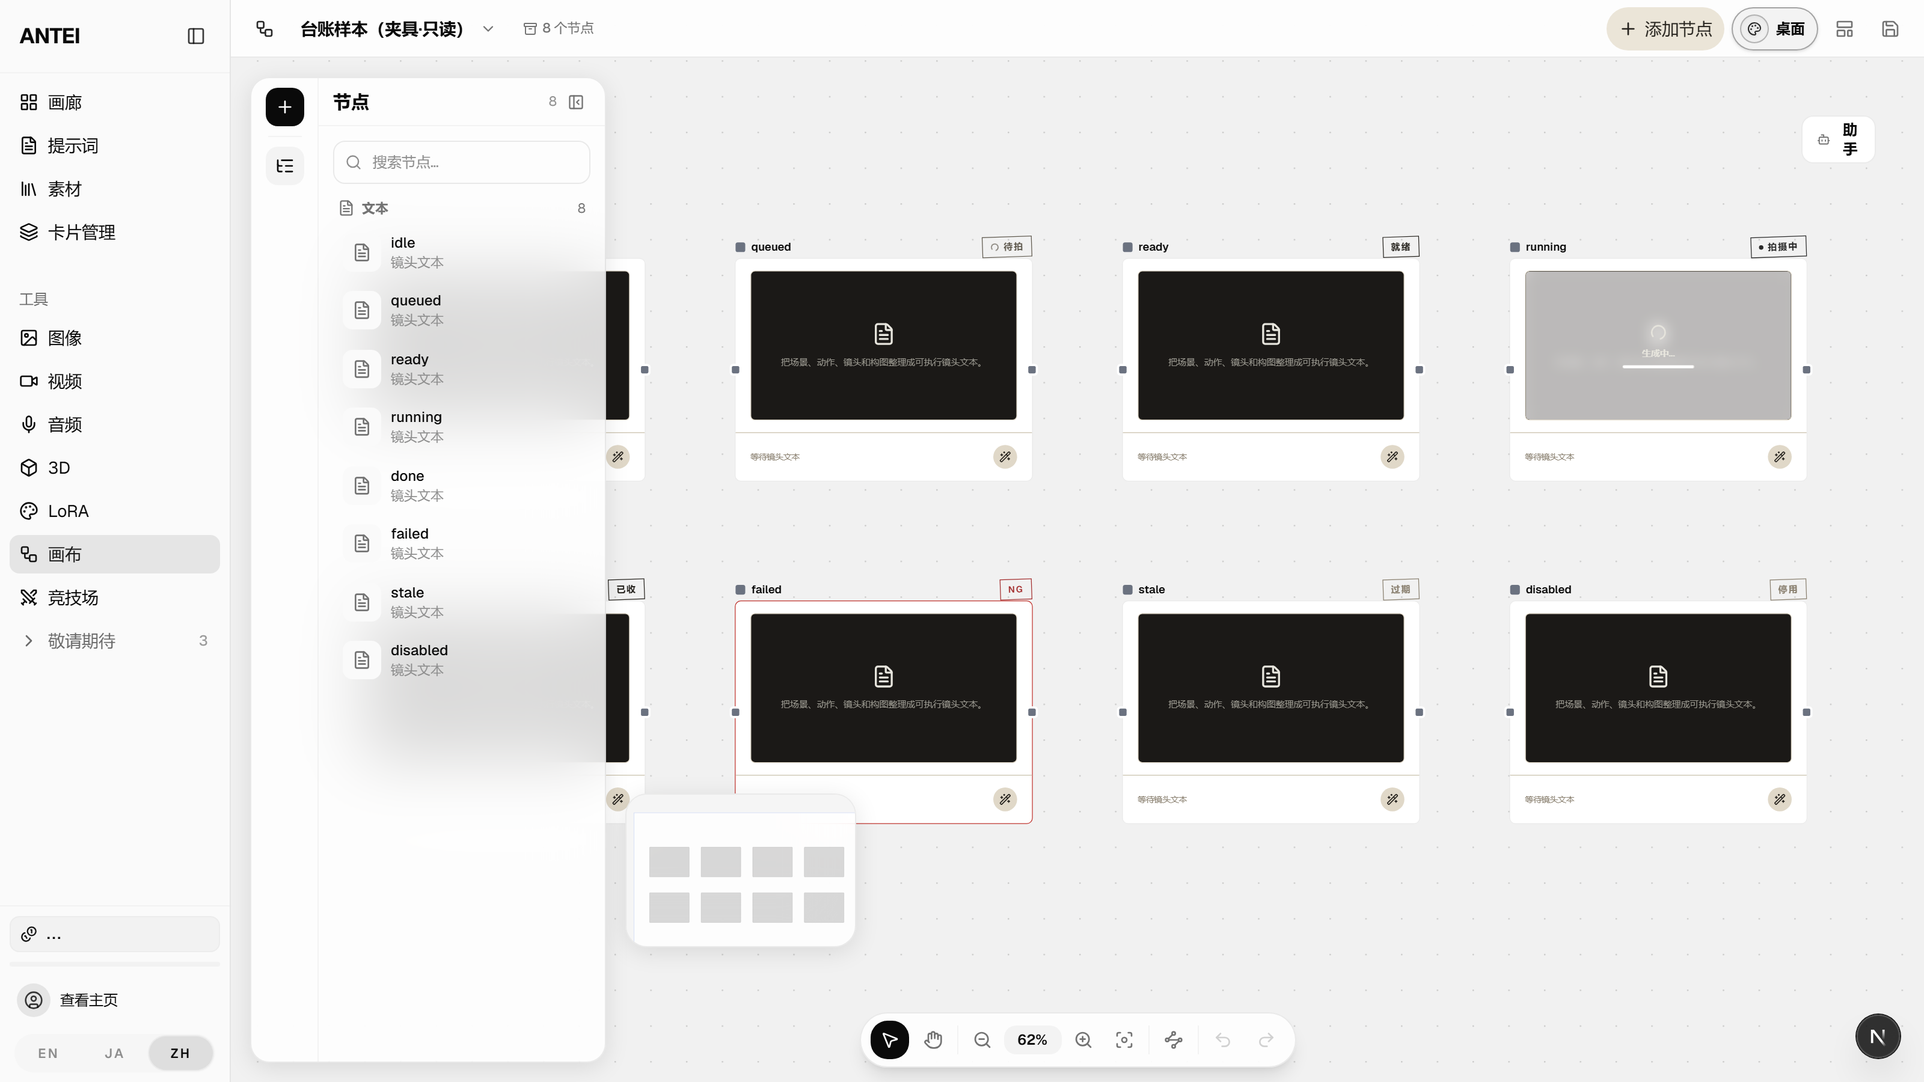
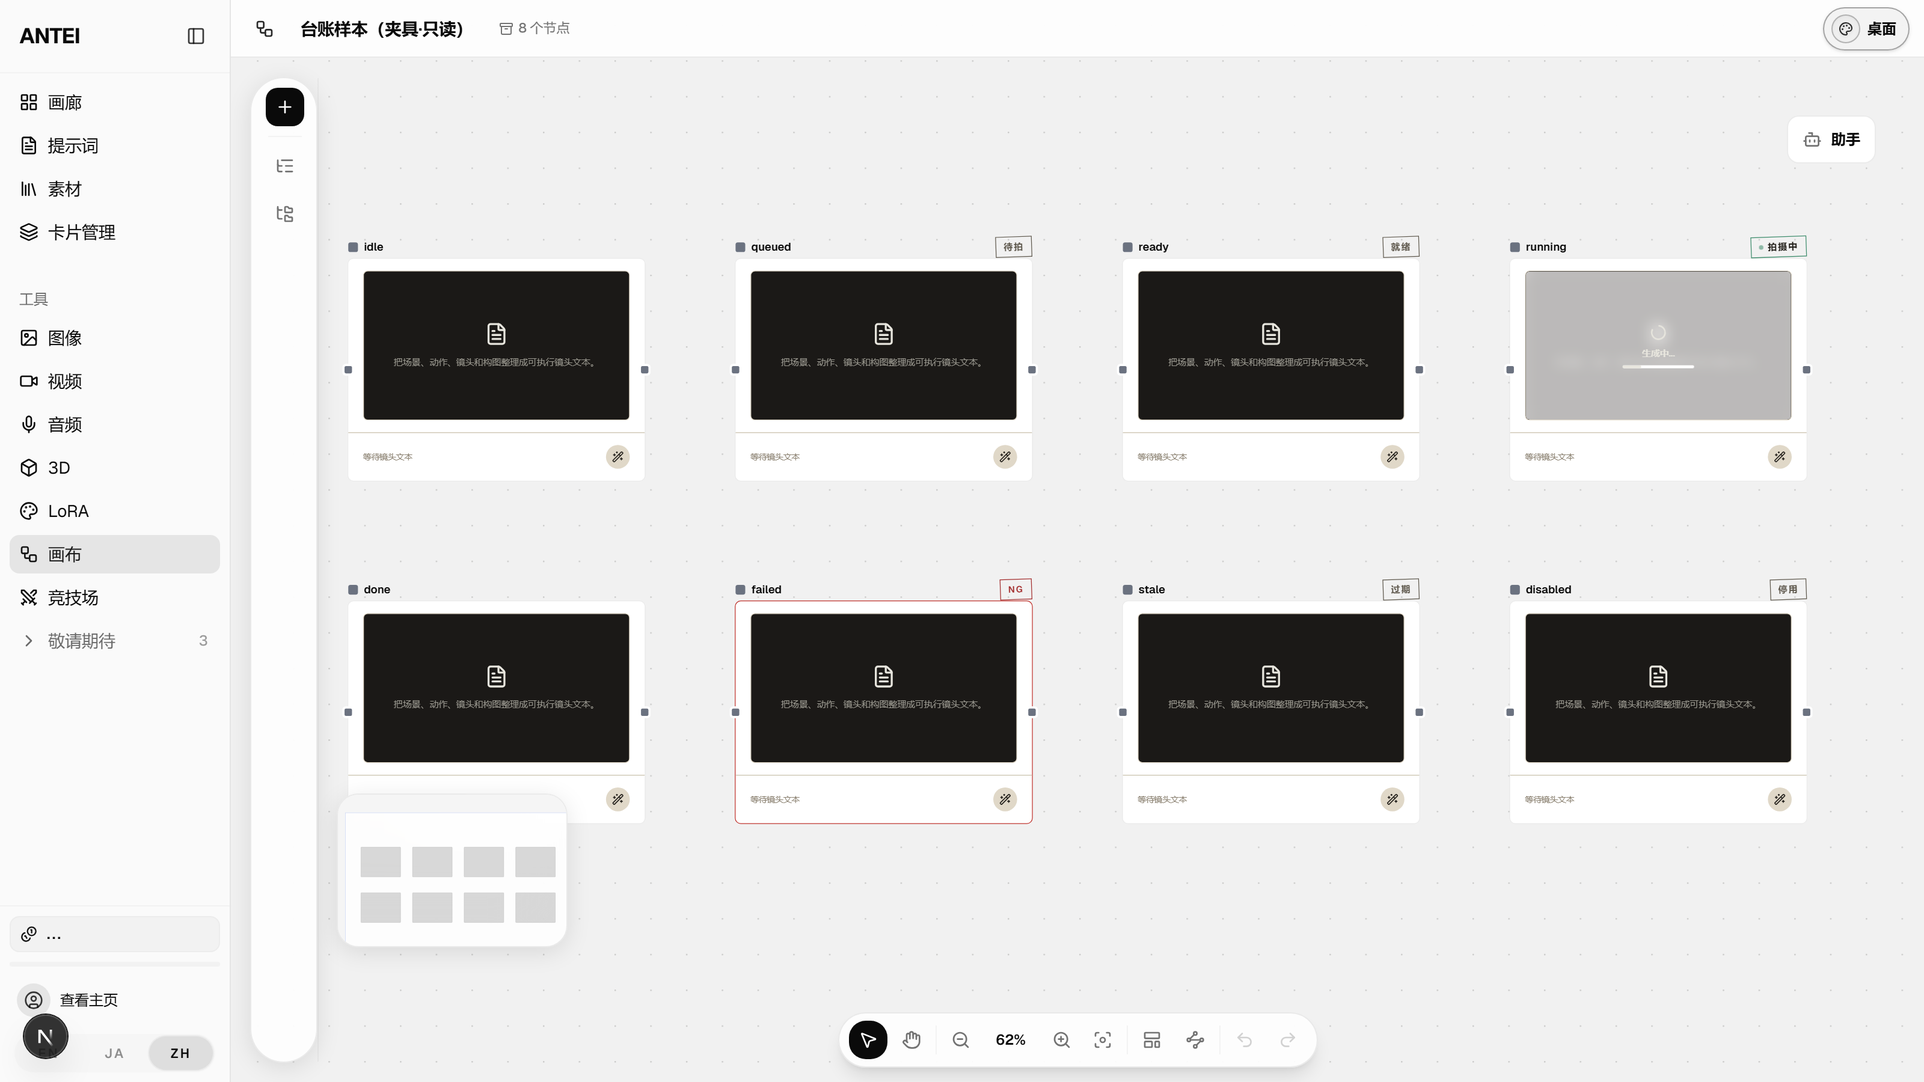
fix(canvas): A7 状态编码 —— 八态里只有五态会发生，而其中三态互相认不出
台账 docs/plans/canvas-ui-inventory-2026-08-01.md §17。批 3 第二片
（第一片是 eb3c7d7d 的 animate-pulse 全站修复）。

⚠ 台账原先记的 A7 是「八态共用一张灰白牌，实拍只认得出 idle」。调查后
**那个推理是错的**：idle 认得出恰恰因为它是唯一有明确定义的态（`return null`，
素卡 = idle）；实拍看不到别的态，真实原因是这枚章在**五族卡上被
`hideStatusBadge` 显式关掉了**。真正的病在下面，比记的那版更糟。

── 病 ──────────────────────────────────────────────────────────

  · `queued` / `stale` / `disabled` **全仓没有任何 writer**，只活在
    `NODE_STATUS_IDS` 枚举里。徽标里那个 `isQueued` 分支（渲染一个转圈的
    Loader2）是**死代码** —— 那个态永远不会来。
  · `ready` 与 `done` 的 `STATUS_COLORS` 值**逐字符相同**
    （`border-current text-node-foreground`）。「等着拍」和「拍完了」两个
    语义相反的态是同一枚章，只有文案差。
  · `stale` 与 `disabled` 同样逐字符相同。
  · `running` 两重失效：
      ① `canvas.css` 在 `.domain-canvas` 里把 `--node-paint` 从石绿 #3e8c6c
         重映射成连线色 `--canvas-edge-active` #2a2a2a（「只变明度不换色相」，
         那是给边用的）。徽标搭了这趟车 —— 实测 #2a2a2a 与 ready/done 的
         #26231e 对比 **1.09**，OKLCh 彩度 0.000 vs 0.010（都是无彩色），
         ΔE-ok **0.029** = 真同色。而 `node-tokens.ts:137` 自己写着
         「进行中靠动效 + 石绿」。
      ② 剩下唯一的区分手段——那颗脉冲点——**不动**（eb3c7d7d 已修）。
    两条叠起来：「正在生成」这件事在画面上是无声的。
  · `stale` / `disabled` 用的 `--node-subtle` 在三个底色预设上最差 **3.44**，
    不够 12px 文字的 4.5。而 `canvas.css:529` 给 `--canvas-ink-subtle` 的注释
    原话就是「只在卡背上用，别放画布底」—— 这枚章恰恰画在画布底上。

── 编码（owner 2026-08-03 四问四答）────────────────────────────

判据只有一条：**这个状态出现时，用户需不需要为它停下来**。

  idle 不盖章 → done 不盖章 → ready 最轻 → running 唯一带动效 → failed 唯一的红

  ① done 不盖章 —— 完成的证据是卡上那张图，再盖一枚是同一件事说两遍。
     `ready ≡ done` 那个 bug 其实提示了答案：两枚一样却没人抱怨过，说明多余
[…]

diff --git a/src/components/business/node/nodes/NodeStatusBadge.test.tsx b/src/components/business/node/nodes/NodeStatusBadge.test.tsx
@@ -1,0 +1,108 @@
+import { cleanup, render, within } from '@testing-library/react'
+import { describe, expect, it, vi } from 'vitest'
+
+import { STATUS_COLORS } from '@/constants/node-tokens'
+import { NODE_STATUS_IDS, NODE_STATUSES } from '@/constants/node-types'
+
+import { NodeStatusBadge } from './NodeStatusBadge'
+
+vi.mock('next-intl', () => ({
+  useTranslations: () => (key: string) => key,
+}))
+
+/**
+ * 台账 §17.3（owner 2026-08-03 拍板）：状态编码按「这个状态出现时用户需不需要
+ * 停下来」排强度。这组用例守的是那条梯度本身，不是某个具体色值。
+ */
+describe('NodeStatusBadge · 强度梯度', () => {
+  it('idle 与 done 都不盖章', () => {
+    // idle = 素卡（原本就是）；done = 拍板①新增 —— 完成的证据是卡上那张图，
+    // 再盖一枚是同一件事说两遍。
+    for (const status of [
+      NODE_STATUS_IDS.idle,
+      NODE_STATUS_IDS.done,
+    ] as const) {
+      const { container } = render(<NodeStatusBadge status={status} />)
+      expect(container).toBeEmptyDOMElement()
+    }
+  })
+
+  it('ready / running / failed 都盖章', () => {
+    for (const status of [
+      NODE_STATUS_IDS.ready,
+      NODE_STATUS_IDS.running,
+      NODE_STATUS_IDS.failed,
+    ] as const) {
+      const { container } = render(<NodeStatusBadge status={status} />)
+      expect(container).not.toBeEmptyDOMElement()
+      expect(within(container).getByText(status)).toBeInTheDocument()
+      cleanup()
+    }
+  })
+
+  // ⚠ 这条是 running 存在的全部理由：它此前与 ready/done 同色（--node-paint
+  // 被 canvas.css 重映射给连线，ΔE-ok 0.029），唯一的区分手段就是这颗点。
+  it('只有 running 带那颗会动的点，且点不跟 currentColor', () => {
+    const { container: run } = render(
+      <NodeStatusBadge status={NODE_STATUS_IDS.running} />,
+    )
+    const dot = run.querySelector('.canvas-status-dot')
+    expect(dot).not.toBeNull()
+    expect(dot).toHaveClass('animate-pulse')
+    // 点靠 .canvas-status-dot 由 canvas.css 上石绿；若退回 bg-current，
+    // 它会跟着墨色的章文变成墨色，running 就又只剩文案的差别了。
+    expect(dot).not.toHaveClass('bg-current')
+
+    for (const status of [
+      NODE_STATUS_IDS.ready,
+      NODE_STATUS_IDS.failed,
+    ] as const) {
+      const { container } = render(<NodeStatusBadge status={status} />)
+      expect(container.querySelector('.canvas-status-dot')).toBeNull()
+    }
+  })
+
+  it('running 挂上专属类，好让 canvas.css 给它上石绿描边', () => {
+    const { container } = render(
+      <NodeStatusBadge status={NODE_STATUS_IDS.running} />,
+    )
+    expect(container.firstElementChild).toHaveClass(
+      'canvas-status-badge--running',
+    )
+  })
+})
+
+describe('STATUS_COLORS · 编码表本身', () => {
+  it('八个状态一个不缺（枚举与色表同步）', () => {
+    // 枚举值不能删（老项目 JSON 里可能存着），所以色表必须始终覆盖全枚举。
+    for (const status of NODE_STATUSES) {
+      expect(STATUS_COLORS).toHaveProperty(status)
+    }
+  })
+
+  // 曾经的 bug：ready 与 done 的值**逐字符相同**，两个语义相反的态同一枚章；
+  // stale 与 disabled 同样。拍板后 done 不盖章，另三个走同一条中性兜底
+  // （那是有意的，不是这条要防的重复）。
+  it('ready 与 done 不再共用同一份编码', () => {
+    expect(STATUS_COLORS.done).toBe('')
+    expect(STATUS_COLORS.ready).not.toBe(STATUS_COLORS.done)
+  })
+
+  // ⚠ --node-subtle 在三个底色预设上最差只有 3.44，不够 12px 文字的 4.5。
+  // canvas.css 给它的注释原话就是「只在卡背上用，别放画布底」，而这枚章
+  // 恰恰画在画布底上。
+  it('没有任何一个状态还在用不达标的 text-node-subtle', () => {
+    for (const [status, value] of Object.entries(STATUS_COLORS)) {
+      expect(
+        value,
+        `${status} 用了对比度 3.44 的 text-node-subtle`,
+      ).not.toContain('text-node-subtle')
+    }
+  })
+
+  // running 不能再搭 --node-paint 那趟车 —— 它在 .domain-canvas 里被重映射成
+  // 连线色 #2a2a2a，与 ready/done 的 #26231e 是同色。
+  it('running 不再走被重映射的 --node-paint', () => {
+    expect(STATUS_COLORS.running).not.toContain('node-paint')
+  })
+})

diff --git a/src/constants/node-tokens.ts b/src/constants/node-tokens.ts
@@ -133,19 +133,44 @@ export const NODE_ACCENTS = {
 } satisfies Record<NodeTokenType, NodeAccentToken>
 
 // S3 盖章状态系统（node-canvas.md §4）：胶囊 → 章，透明底 + 描边 + 同色文字。
-// idle 无章（组件层 return null，这里不需要条目）。§6 去黄原则延续：排队/完成
-// 靠中性炭墨，进行中靠动效 + 石绿（§5 落点②），仅失败用红——章文承载语义、
-// 颜色只加固。`text-node-*` 变量类在 `.node-card-paper` 作用域内自动变炭墨系、
-// 深 chrome（详情面板等）自动浅色系，不写两套（见 globals.css strangler 覆盖）。
+/**
+ * 章色 —— 强度梯度（台账 §17.3，owner 2026-08-03 拍板）。
+ *
+ * 判据只有一条：**这个状态出现时，用户需不需要为它停下来**。由弱到强：
+ *
+ *   idle 不盖章 → done 不盖章 → ready 最轻 → running 唯一带动效 → failed 唯一的红
+ *
+ * ⚠ `idle` 与 `done` 都是空串，且组件层直接 `return null` —— 它们不是「透明的
+ * 章」，是**没有章**。done 不盖章是拍板①：完成的证据是卡上那张图，再盖一枚是
+ * 同一件事说两遍。这条也顺手治了原来的 bug：ready 与 done 的值曾**逐字符相同**
+ * （都是 `border-current text-node-foreground`），两个语义相反的态同一枚章。
+ *
+ * ⚠ `queued` / `stale` / `disabled` **全仓没有任何 writer**（只活在
+ * `NODE_STATUS_IDS` 枚举里），所以按拍板③**不设专属档**，统一走中性兜底。
+ * 枚举值不能删 —— 老项目 JSON 里可能存着，删了 Zod 解析会整份失败。
+ *
+ * ⚠ 三个底色预设（#FFFFFF / #F4F4F3 / #F1F1F1）上都算过（最差档）：
+ *   `--node-foreground` #26231e → 13.86 ✓ 文字
+ *   `--node-muted`      #5f594e →  6.15 ✓ 文字
+ *   `--node-subtle`     #8a8070 →  3.44 ✗ **不够 12px 文字**，已弃用
+ *   纸红                #a32d2d →  6.26 ✓ 文字
+ * 原来 stale/disabled 用的就是那个 3.44 的 subtle，而 `canvas.css:529` 给
+ * `--canvas-ink-subtle` 的注释原话就是「只在卡背上用，别放画布底」——
+ * 这枚章恰恰画在画布底上。
+ *
+ * running 的石绿只在**边与点**上（见 `.canvas-status-badge--running`）：石绿作
+ * 12px 文字最差只有 3.59，够图形档不够文字档，所以章文留墨色。
+ */
 export const STATUS_COLORS = {
   idle: '',
-  queued: 'border-current text-node-muted',
-  ready: 'border-current text-node-foreground',
-  running: 'border-current text-node-paint',
-  done: 'border-current text-node-foreground',
+  ready: 'border-current text-node-muted',
+  running: 'canvas-status-badge--running border-current text-node-foreground',
+  done: '',
   failed: 'border-node-status-failed text-node-status-failed',
-  stale: 'border-current text-node-subtle',
-  disabled: 'border-current text-node-subtle',
+  // 以下三个永不发生，中性兜底（拍板③）
+  queued: 'border-current text-node-muted',
+  stale: 'border-current text-node-muted',
+  disabled: 'border-current text-node-muted',
 } as const
 
 // §2.3 连线全中性灰，default/hover/选中/进行中靠明度（--node-edge ↔ -edge-active），

diff --git a/src/components/business/node/nodes/NodeStatusBadge.tsx b/src/components/business/node/nodes/NodeStatusBadge.tsx
@@ -1,6 +1,5 @@
 'use client'
 
-import { Loader2 } from 'lucide-react'
 import { useTranslations } from 'next-intl'
 
 import { STATUS_COLORS } from '@/constants/node-tokens'
@@ -14,13 +13,23 @@ interface NodeStatusBadgeProps {
   status: NodeWorkflowStatus
 }
 
+/**
+ * 盖章状态系统（§4）+ 强度梯度（台账 §17.3，owner 2026-08-03 拍板）。
+ *
+ * 两个态**没有章**：
+ *   · `idle` = 素卡，还没开始 —— 原本就是这样
+ *   · `done` = 完成 —— 拍板①新增。完成的证据是卡上那张图，再盖一枚是说两遍
+ *
+ * ⚠ 曾经有个 `queued` 分支渲染 `<Loader2 className="animate-spin" />`，已删：
+ * `queued` 全仓**没有任何 writer**，那段是死代码。三个不可达态（queued /
+ * stale / disabled）现在统一走中性兜底（拍板③），枚举值仍留在
+ * `NODE_STATUS_IDS` 里不动 —— 老项目 JSON 可能存着，删了 Zod 会整份解析失败。
+ */
 export function NodeStatusBadge({ status }: NodeStatusBadgeProps) {
   const t = useTranslations('StudioNode.statuses')
-  const isQueued = status === NODE_STATUS_IDS.queued
   const isRunning = status === NODE_STATUS_IDS.running
 
-  // §4 盖章状态系统：idle = 素卡，不盖章。
-  if (status === NODE_STATUS_IDS.idle) {
+  if (status === NODE_STATUS_IDS.idle || status === NODE_STATUS_IDS.done) {
     return null
   }
 
@@ -31,9 +40,13 @@ export function NodeStatusBadge({ status }: NodeStatusBadgeProps) {
         STATUS_COLORS[status],
       )}
     >
-      {isQueued ? <Loader2 className="size-3 animate-spin" /> : null}
+      {/* running 是唯一带动效的态。⚠ 点的颜色走 `.canvas-status-dot` 由
+          canvas.css 上石绿，不用 `bg-current` —— 章文是墨色，跟着 current 会让
+          点也变成墨色，那样 running 与 ready 就又只剩文案的差别了。
+          `animate-pulse` 在 2026-08-03 之前是**死的**（globals.css 的
+          `--animate-pulse` 覆盖占用了 Tailwind 内建名，见 eb3c7d7d）。 */}
       {isRunning ? (
-        <span className="size-1.5 rounded-full bg-current animate-pulse" />
+        <span className="canvas-status-dot size-1.5 rounded-full animate-pulse" />
       ) : null}
       {t(status)}
     </span>

diff --git a/src/components/business/node/nodes/NodeShell.tsx b/src/components/business/node/nodes/NodeShell.tsx
@@ -479,8 +479,19 @@ function NodeShellHeader({
     // S1（2026-07-26）：卡名移到卡「外」上方。用 canvas-card-label 的
     // absolute + bottom:100% 脱离文档流——卡的 box 尺寸一点不变，React Flow 的
     // 节点测量与端口锚点因此完全不受影响，15 个调用方也不用改签名。
-    // 卡内自此是纯媒体（规格 §12.1）。状态徽章暂随卡名走；把它挪进媒体窗左上角
-    // 浮标是 S4 的事，本片不动卡内。
+    // 卡内自此是纯媒体（规格 §12.1）。
+    //
+    // ⚠ 状态徽章**就留在这里**，别再挪。这行原先写的是「把它挪进媒体窗左上角
+    // 浮标是 S4 的事」，2026-08-03 owner 拍板**撤销**那个计划，三条理由：
+    //   ① 挪的初衷是「章画在画布底上、却用按纸背算的墨色」导致 stale/disabled
+    //      只有 3.44。那条已经换掉不达标的色档修好了（台账 §17.3），前提没了。
+    //   ② 卡内是纯媒体，把章压在**用户的图**上，底色反而变成不可知——画布底
+    //      至少是三个近白预设，用户的图不是。那是更糟不是更好。
+    //   ③ 图片族 / Seedance 的 `hideStatusBadge` **不是漏配**：它们的媒体窗
+    //      已经在说状态了（生成中遮罩、失败原因 + 重试）。章挪进去等于同一件
+    //      事说两遍，正是台账 B6「信息说三遍」那个病。
+    // 「有媒体窗的族靠窗内说、没有的族靠章说」是**对的分工**；真正待统一的是
+    // 两套窗内说法长得不一样（台账发现 #14）。
     <header className="canvas-card-label">
       <div className="flex min-w-0 items-center gap-2">
         {/* 族图标：与端口同一套形状 + 族色编码（canvas.css .canvas-label-glyph）。

diff --git a/src/app/canvas.css b/src/app/canvas.css
@@ -540,6 +540,14 @@
   --canvas-ok: #16794c; /* 5.42 */
   --canvas-warn: #8a5a00; /* 5.93 */
   --canvas-danger: #c0342e; /* 5.57 */
+  /* 生成中（§17.3 拍板）。值就是 :root `--node-paint` 的石绿原值 ——
+     `node-tokens.ts:137` 当初写的「进行中靠动效 + 石绿」指的是它，但
+     canvas.css:1635 把 `--node-paint` 重映射给连线用了（「只变明度不换色相」），
+     徽标搭那趟车的结果是 running 变成 #2a2a2a、与 ready/done 的 #26231e
+     ΔE-ok 0.029 = 真同色。所以另起一个名字，不再共用。
+     ⚠ 只作边与点，**不作文字**：三个底色预设上 4.06 / 3.69 / 3.59，
+     够图形档（≥3）不够 12px 文字档（≥4.5）。 */
+  --canvas-status-running: #3e8c6c;
 
   /* 7 · 端口族色 —— 形状是主编码、色是辅编码，且全部避开强调蓝的色相区 */
   --canvas-port-image: #6b7280; /* 4.83 · 实心方 */
@@ -1349,6 +1357,18 @@
 }
 .domain-canvas .canvas-card-label > * {
   pointer-events: auto;
+}
+
+/* 盖章状态徽标 · running 档（台账 §17.3）。石绿只落在**边与点**上，章文仍是
+   墨色 —— 石绿作 12px 文字在三个底色预设上最差 3.59，够图形档不够文字档。
+   在这之前 running 的编码是 `text-node-paint`，而 canvas.css 上面把
+   `--node-paint` 重映射给连线了，于是 running 与 ready/done 是同一个色
+   （ΔE-ok 0.029），加上那颗点又不动 —— 等于「正在生成」这件事在画面上无声。 */
+.domain-canvas .canvas-status-badge--running {
+  border-color: var(--canvas-status-running);
+}
+.domain-canvas .canvas-status-dot {
+  background: var(--canvas-status-running);
 }
 
 /* 端口：形状是主编码、色是辅编码（族色全部避开强调蓝的色相区）。

diff --git a/docs/plans/canvas-ui-inventory-2026-08-01.md b/docs/plans/canvas-ui-inventory-2026-08-01.md
@@ -1043,12 +1043,30 @@ owner 五条反馈**改了三处方案方向**，原型 v2 据此重画（`proto
 | ① done 还盖不盖章          | **不盖**。完成的证据是卡上那张图；`ready ≡ done` 这个 bug 恰恰说明多余的是 done                                                           |
 | ② ready 由章说还是生成钮说 | **章保留但压到最轻**（详情面板那条链路上没有生成钮）                                                                                      |
 | ③ 三个永不发生的态         | **枚举留着、编码不设专属档**，走中性兜底。⚠ 枚举值**不能删** —— 老项目 JSON 里可能存着，删了 Zod 解析整份失败（`NODE_TYPE_IDS` 同款教训） |
-| ④ 章进卡内（把 S4 做完）   | **这一批一起做**。不然颜色怎么调都是在错的底色上调                                                                                        |
+| ④ 章进卡内（把 S4 做完）   | ~~这一批一起做~~ → **2026-08-03 当日撤销，维持卡外**（理由见 §17.5）                                                                      |
 
 强度梯度（判据 = 这个状态出现时用户需不需要停下来）：
 `idle` 无章 → `done` 无章 → `ready` 最轻 → `running` 唯一带动效 → `failed` 唯一的红。
 
 **running 用色（算过，禁目测）**：石绿 `#3e8c6c` 色相分离最好（ΔH 83°），但**作 12px 文字不达标**（3.59 底 / 4.06 卡，需 4.5）。故拆开用 —— **章文留墨色**（13.86 / 15.65），**信号交给会动的点 + 石绿描边**（图形只需 3:1，石绿 3.59 / 4.06 过）。既兑现 `node-tokens.ts:137` 的承诺又不牺牲可读性。
+
+### 17.5 ⚠ ④ 当天就被撤销：章维持卡外
+
+做完编码那一片之后回头看，④ 的**前提已经不成立**，另有两处原型没想透，owner 据此撤销：
+
+1. **前提没了。** ④ 的理由是「不然颜色怎么调都是在错的底色上调」。但按三个底色预设
+   （`#FFFFFF` / `#F4F4F3` / `#F1F1F1`）重算后，留用的色档最差 6.15 全部达标；那条 3.44
+   不达标已经在编码这一片里换掉了。「错的底色」这件事本身已经解决。
+2. **卡内更糟不是更好。** 卡内是纯媒体（规格 §12.1）。把章压在**用户的图**上，底色变成
+   **不可知**（`canvasAppearance` 还能设背景图）；画布底至少是三个近白预设。
+3. **挪进去会制造重复。** 图片族 / Seedance 的 `hideStatusBadge` **不是漏配** —— 它们的
+   媒体窗已经在说状态了（生成中遮罩、失败原因 + 重试）。章挪进去 = 同一件事说两遍，
+   正是发现 B6「信息说三遍」那个病。
+
+⟹ 「**有媒体窗的族靠窗内说、没有媒体窗的族靠章说**」是**对的分工**，不是缺陷。
+真正待统一的是两套窗内说法长得不一样 —— 那就是发现 **#14**，批 3 六条里唯一还完全成立的一条。
+`NodeShell.tsx` 里那条「挪进媒体窗是 S4 的事」的旧注释已改成记录**为什么最终没挪**，
+免得下一个人照着它再挪一次。
 
 ### 17.4 ⚠ 顺带挖出的全站 bug：`animate-pulse` 四个月没动过
 
